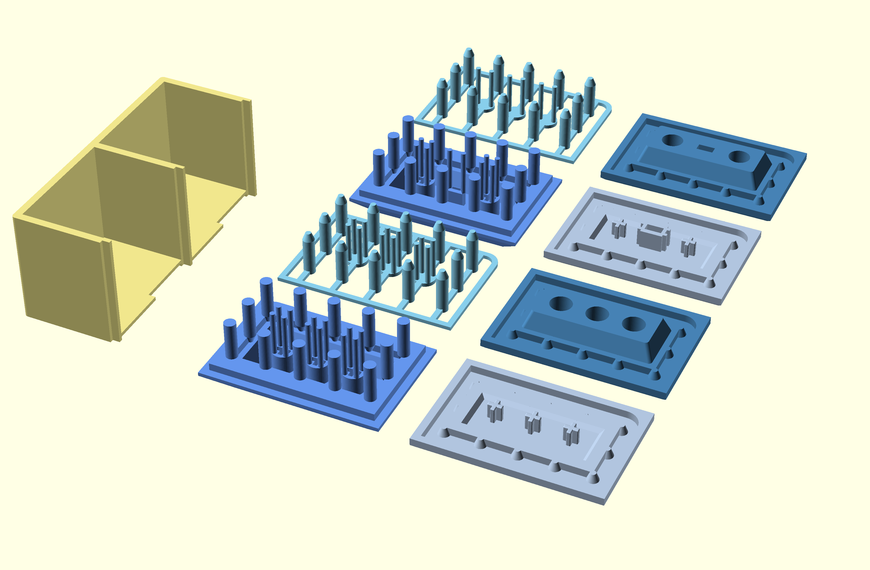
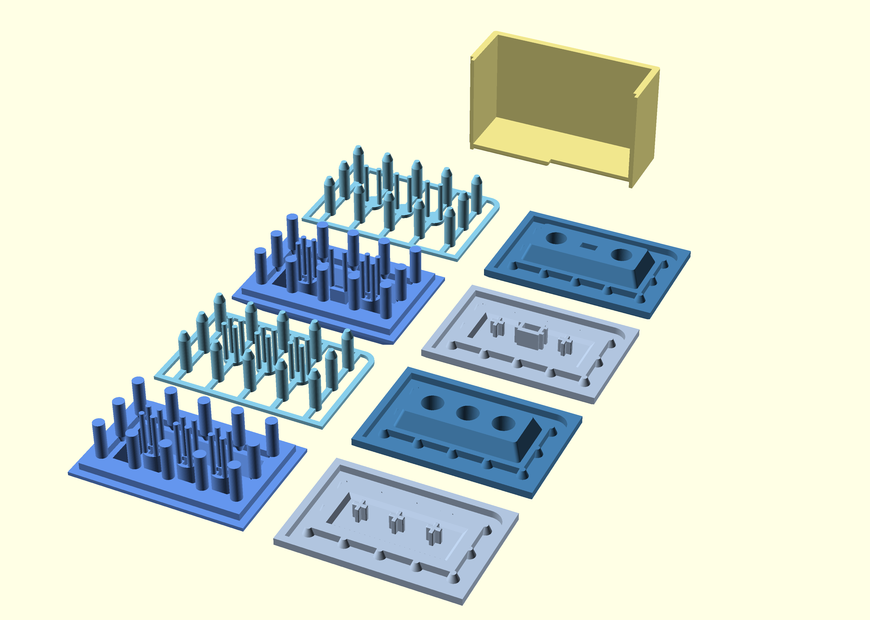
Extend container in X instead of Y. Limit double container to caps smaller than 2u. Add container inset parameter.

diff --git a/README.md b/README.md
@@ -2,9 +2,6 @@
 
 An exploratory port of Zappycobra's [Z-Butt](https://github.com/imyownyear/Z-Butt) system to OpenSCAD.
 
-
-## Models
-
 STL models are available for download in the [releases](https://github.com/yatara-cc/z-butt-openscad/releases) section.
 
 
@@ -35,8 +32,9 @@ mx_master_base(xu=2);
 ### Parameters
 
 -   Measurements can be altered by changing values in the “User Parameters” section of the `z-butt.scad` library. Of particular note:
-    -   `sprue_max_distance` can be used to make sprue placement denser or sparser
-    -   `mx_offset` can be used to tune the fitment of the MX cross
+    -   `sprue_max_distance`: make sprue placement denser or sparser
+    -   `mx_offset`: tune the fitment of the MX cross
+    -   `container_inset` tune the gap to the internal walls of the container
 -   MX stems for stabilizers have been included on larger spacebars, though these are tentative and it is advised to check them before printing. Stem placement can be edited in the functions `switches_xu` and `stabilizers_xu`.
 
 
